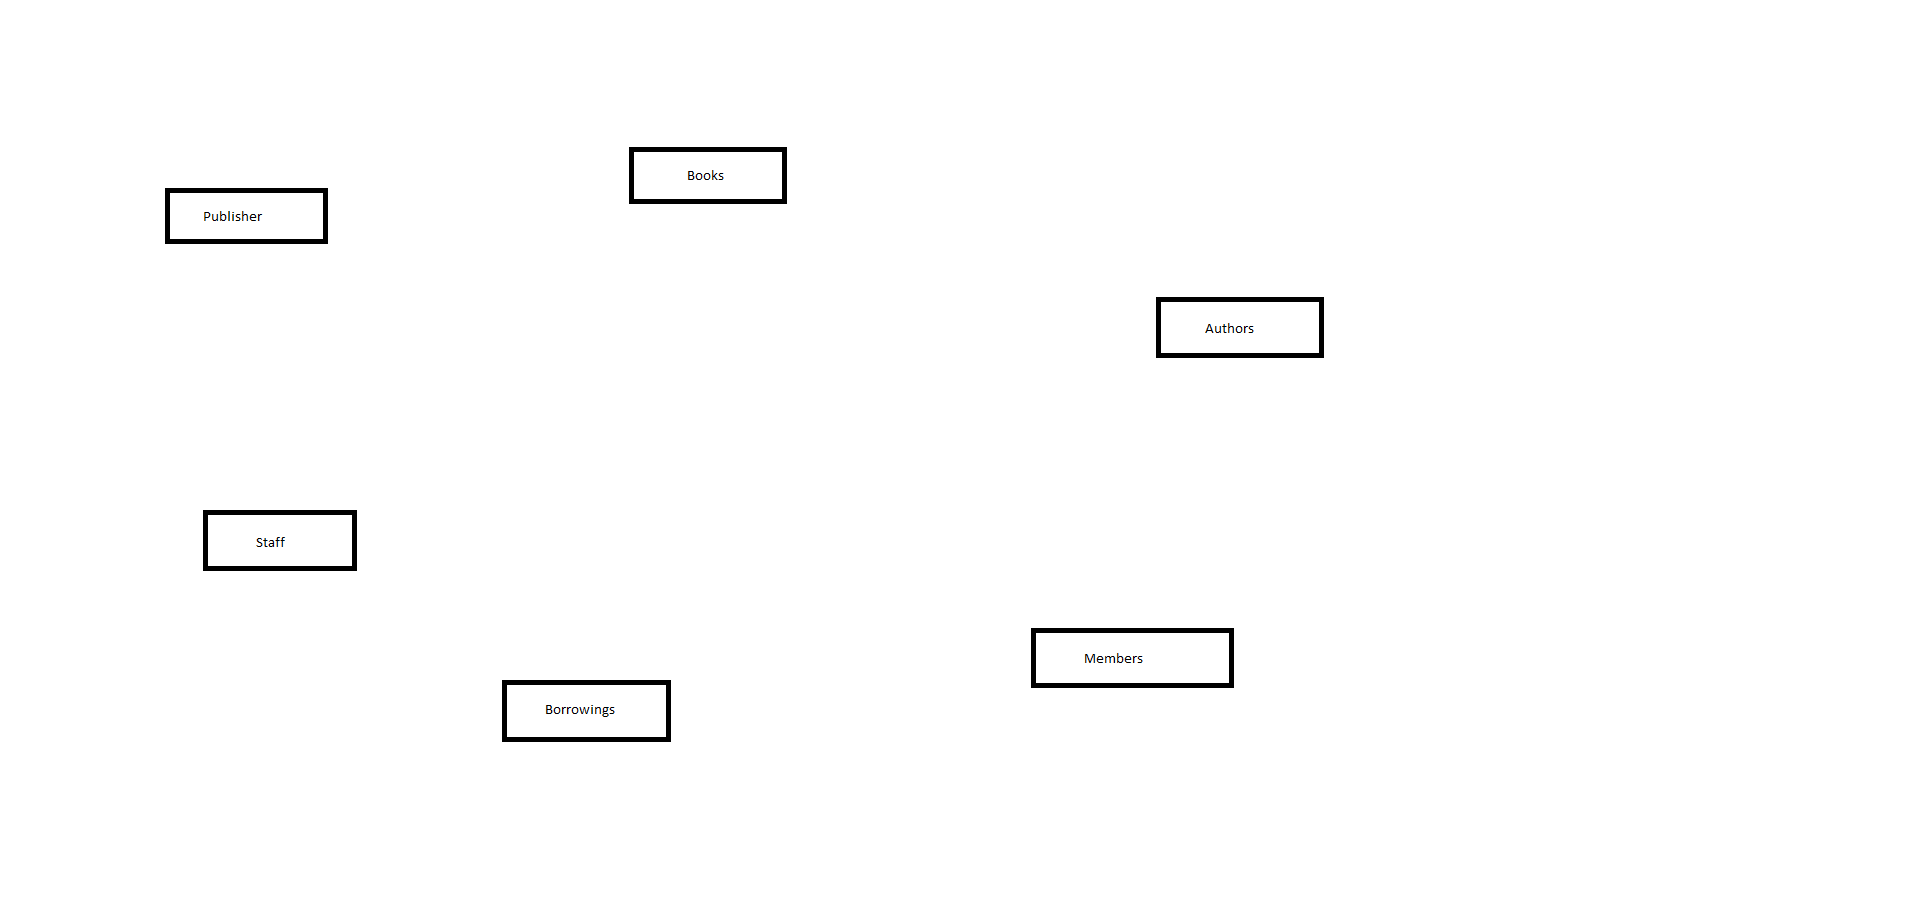
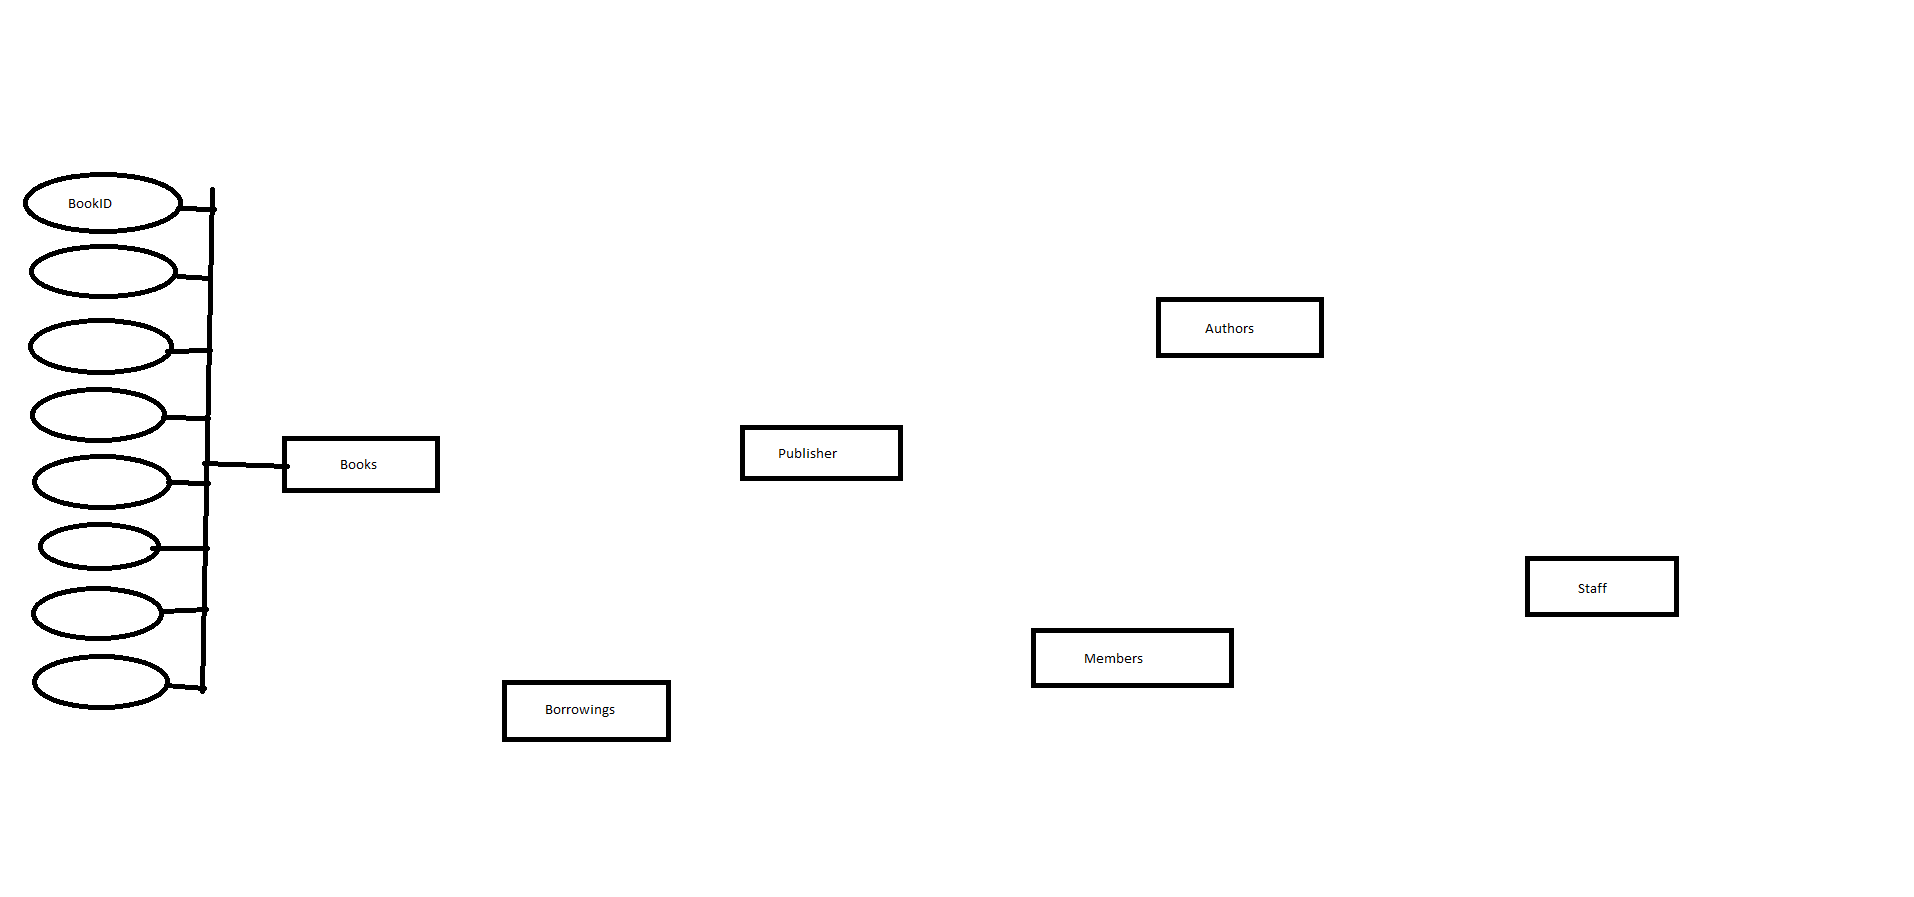
20..4..20_11:18

diff --git a/Porjekt Ötletek.md b/Porjekt Ötletek.md
@@ -13,9 +13,9 @@ Projekt név: LMS (Library Management System)
 ## Books - Könyvek
 ##### Adatokat tárol a könyvekről
 
-| BookID | Title       | AuthorID | ISBN | PublicationYear | CategoryID | CopiesAvailable |
-| ------ | ----------- | -------- | ---- | --------------- | ---------- | --------------- |
-| 1      | Irodalom 9. | 1        | 1234 | 2020            | 1          | 5               |
+| BookID | Title       | AuthorID | PublisherID | ISBN | PublicationYear | CategoryID | CopiesAvailable |
+| ------ | ----------- | -------- | ----------- | ---- | --------------- | ---------- | --------------- |
+| 1      | Irodalom 9. | 1        | 1           | 1234 | 2020            | 1          | 5               |
 # Authors - Szerzők
 ##### Információkat tárol az írókról.
 
